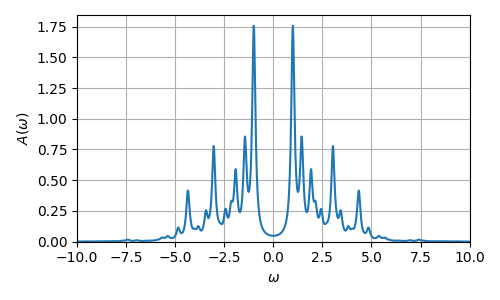
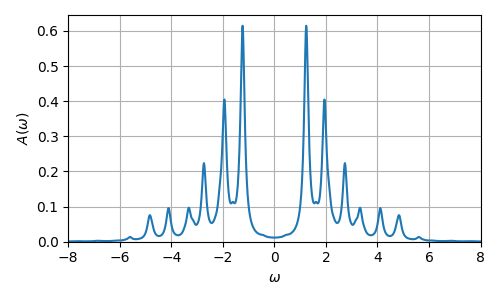
update: update examples and README.md

diff --git a/examples/hubbard_gf.py b/examples/hubbard_gf.py
@@ -5,24 +5,18 @@
 # Copyright (c) 2022, Dylan Jones
 
 import numpy as np
-import lattpy as lp
 import matplotlib.pyplot as plt
 import exactdiag as ed
 
 
 def main():
-    num_sites = 5
-    u, hop = 4.0, 1.0
-    beta = 10.0
+    model = ed.models.HubbardModel.chain(num_sites=7, inter=4.0, beta=10.0).hf()
 
-    latt = lp.finite_hypercubic(num_sites)
-    model = ed.models.HubbardModel(latt, inter=u, hop=hop).hf()
-
-    z = np.linspace(-10, +10, 1001) + 1e-1j
-    gf = ed.gf_lehmann(model, z, beta, i=2, sigma=ed.UP)[0]
+    z = np.linspace(-8, +8, 1001) + 1e-1j
+    gf = ed.gf_lehmann(model, z, i=3, sigma=ed.UP)[0]
 
     fig, ax = plt.subplots()
-    ax.plot(z.real, -gf.imag)
+    ax.plot(z.real, -gf.imag / np.pi)
     ax.grid()
     ax.set_ylim(0, None)
     ax.set_xlim(z[0].real, z[-1].real)

diff --git a/README.md b/README.md
@@ -162,7 +162,7 @@ hamop = model.hamilton_operator(n_up=1, n_dn=1)
 
 sector = model.basis.get_sector()
 ham = model.hamiltonian(sector=sector)
-ed.matshow(ham, ticklabels=sector.state_labels())
+ed.matshow(ham, ticklabels=sector.state_labels(), values=True)
 ````
 <p align="center">
   <img src="examples/hubbard_ham.png" width=400 alt="Sublime's custom image"/>
@@ -176,15 +176,10 @@ import numpy as np
 import lattpy as lp
 import exactdiag as ed
 
-num_sites = 5
-u, hop = 4.0, 1.0
-beta = 10.0
+model = ed.models.HubbardModel.chain(num_sites=7, inter=4.0, beta=10.0).hf()
 
-latt = lp.finite_hypercubic(num_sites)
-model = ed.models.HubbardModel(latt, inter=u, hop=hop).hf()
-
-z = np.linspace(-10, +10, 1001) + 1e-1j
-gf = ed.gf_lehmann(model, z, beta, i=2, sigma=ed.UP)[0]
+z = np.linspace(-8, +8, 1001) + 1e-1j
+gf = ed.gf_lehmann(model, z, i=3, sigma=ed.UP)[0]
 ````
 <p align="center">
   <img src="examples/hubbard_gf.png" alt="Sublime's custom image"/>
